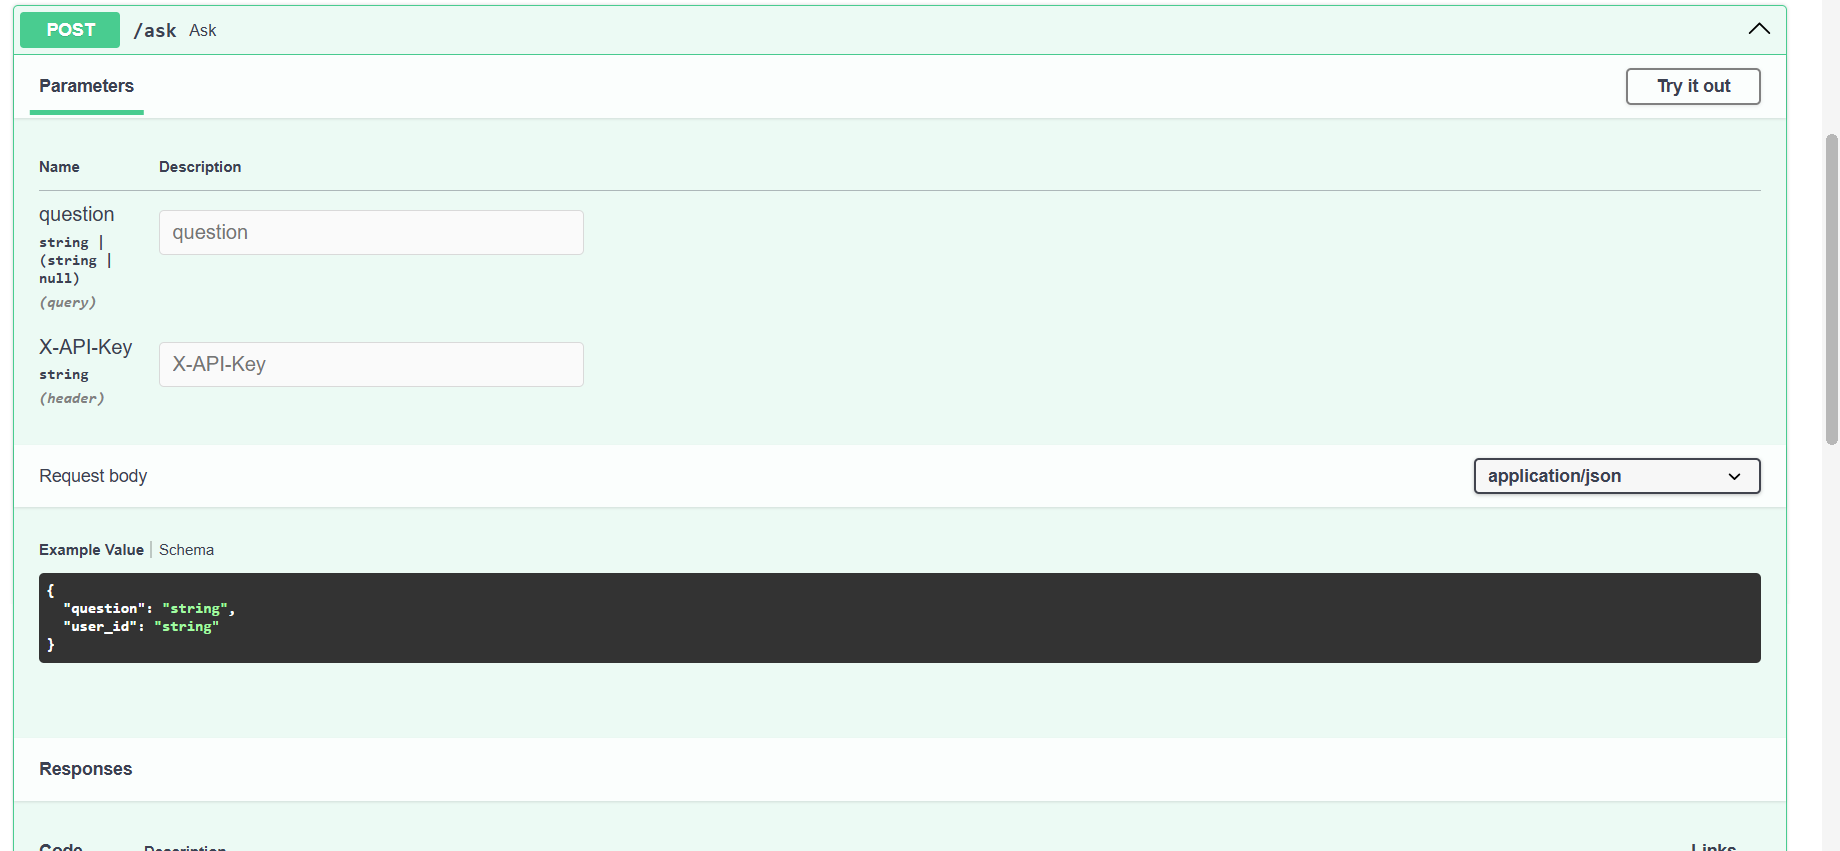
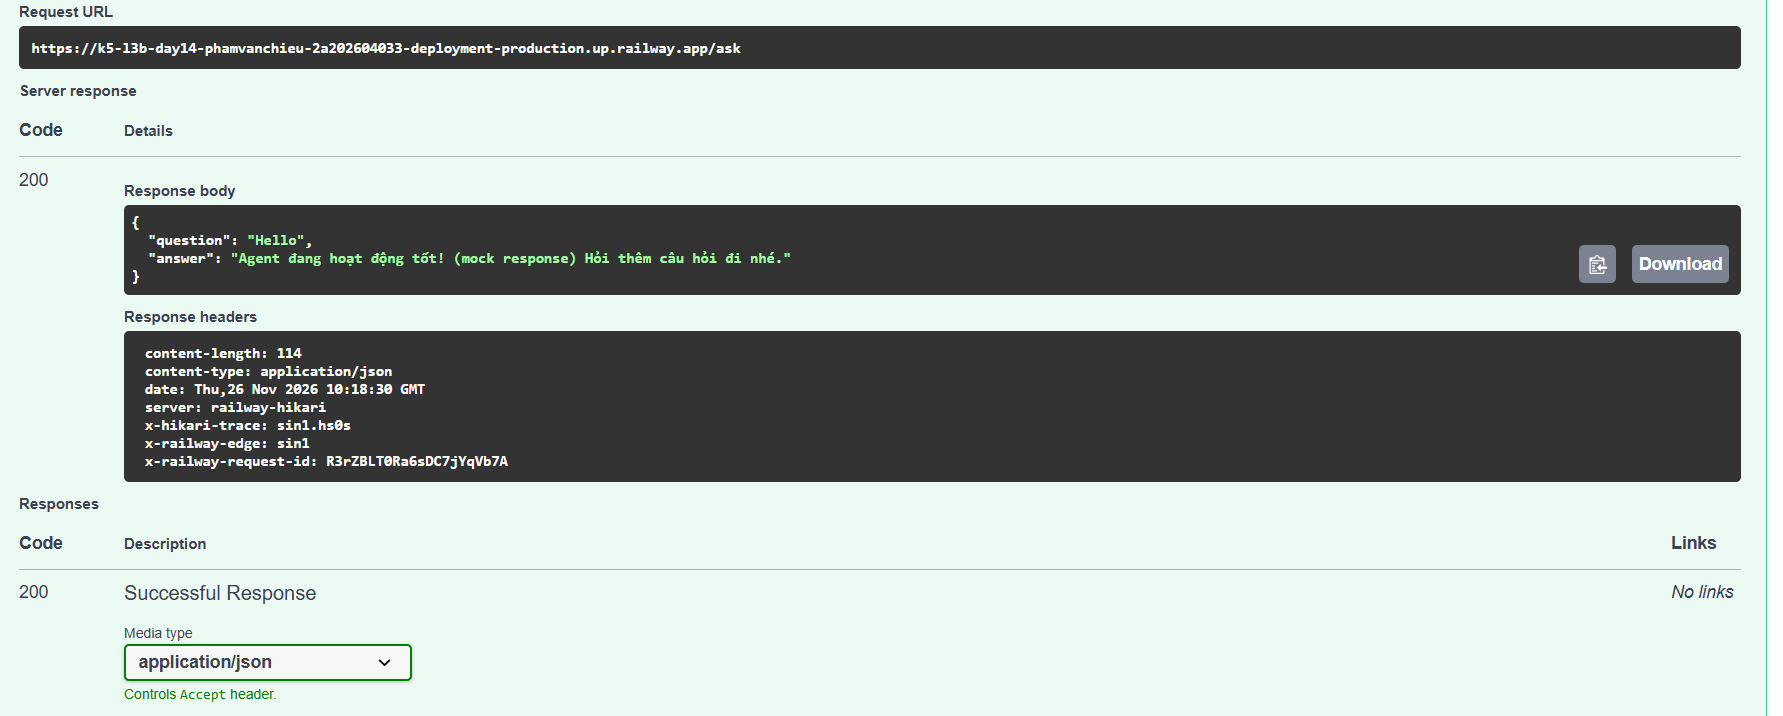
Add verified Day 14 exercise evidence

diff --git a/MISSION_ANSWERS.md b/MISSION_ANSWERS.md
@@ -17,6 +17,8 @@
 
 ### Exercise 1.2: Chạy bản develop
 
+Ví dụ về cấu hình cổng: [Bản develop gán cứng `port=8000`](01-localhost-vs-production/develop/app.py#L52). [Bản production đọc biến `PORT`](01-localhost-vs-production/production/config.py#L18) và [truyền cổng đã đọc cho Uvicorn](01-localhost-vs-production/production/app.py#L197). Nền tảng deploy có thể cấp cổng qua env mà không cần đổi mã nguồn.
+
 App mẫu bind vào loopback, vì vậy hai request được gọi từ bên trong container chạy bản develop.
 
 ```text
@@ -111,6 +113,17 @@ content-type: application/json
 {"detail": "Rate limit exceeded"}
 ```
 
+**Kết quả chạy lại hai app mẫu qua HTTP trên Ubuntu WSL**
+
+```text
+Develop     POST /ask thiếu API key                → 401
+Develop     POST /ask có API key hợp lệ            → 200
+Production  POST /ask thiếu JWT                    → 401
+Production  POST /auth/token với tài khoản demo    → 200
+Production  POST /ask với JWT, request 1–10        → 200
+Production  POST /ask với JWT, request 11–12       → 429
+```
+
 ### Exercise 4.4: Thiết kế Cost Guard bảo vệ ngân sách
 - Sử dụng Redis để cộng dồn chi phí token (`cost_guard:total_cost_usd`) sau mỗi lần gọi LLM.
 - Trước khi gọi LLM, hàm `check_budget()` kiểm tra tổng chi phí hiện tại. Nếu vượt ngưỡng `DAILY_BUDGET_USD` (hoặc `MONTHLY_BUDGET_USD`), chặn ngay lập tức và trả về mã lỗi **HTTP 402 Payment Required** (hoặc Budget Exceeded), giúp ngăn chặn sự cố cạn kiệt ngân sách do vòng lặp vô tận hoặc tấn công DoS chi phí.
@@ -182,6 +195,7 @@ Kiểm tra lại ngày 26/11/2026 bằng `python3 check_production_ready.py` tro
 - **Hỗ trợ của Codex:** Đối chiếu log Railway và Docker, sửa đường dẫn thư viện Python trong Dockerfile Part 7, tổng hợp bảng scaling từ CSV và rà soát ba tài liệu nộp.
 - **Bằng chứng kiểm tra:** Người làm bài chạy lại stack sau khi sửa Dockerfile và ghi nhận ba agent healthy, gọi thử bốn endpoint Railway, chạy Locust và chụp ảnh Grafana, Jaeger, Prometheus. Các số scaling được đối chiếu với CSV.
 - **Rà soát bổ sung:** Codex chạy mẫu Part 1, đo image và gọi qua Nginx Part 2, chạy lại bài stateless Part 5 và script chấm Part 6 trên máy local. Mốc alert được đối chiếu với lịch sử Prometheus và trace được đối chiếu với log JSON của agent.
+- **Kiểm tra cuối:** Codex chạy lại HTTP test API key/JWT của Part 4, truy vấn mẫu Prometheus để trả lời Exercise 7.4 và đối chiếu ảnh deploy với các mã HTTP đã xác nhận.
 - **Nội dung hỏi:**
   - Hướng dẫn cấu hình môi trường WSL2 / Docker trên Windows 11.
   - Phân tích yêu cầu và kiến trúc chuẩn 12 tiêu chí Production-ready AI Agent.

diff --git a/BENCHMARK_REPORT.md b/BENCHMARK_REPORT.md
@@ -74,6 +74,13 @@ Trong CI, chạy `eval/run_eval.py` với ngưỡng accuracy và baseline đã c
 - [x] Một trace lỗi trong Jaeger: `screenshots/jaeger-error-trace.png`
 - [x] Trang Alerts của Prometheus với ít nhất 2 alert đang **firing**: `screenshots/prometheus-alert-firing.png`
 
+**Exercise 7.4**
+
+1. Mẫu Prometheus lúc 17:38:00 ngày 26/11/2026 (GMT+7) cho `POST /ask` có p95 **294,23 ms** và trung bình **237,80 ms**. Chênh khoảng **56,43 ms** cho thấy nhóm request chậm có thời gian phản hồi cao hơn mức trung bình. Tile p95 trong ảnh Grafana ở thời điểm chụp hiển thị **293,86 ms**.
+2. Cùng mẫu đó, ba replica nhận lần lượt **2,16**, **2,15** và **2,10 req/s**. Tải được phân phối gần đều trên ba replica của lần chạy này.
+3. Input khoảng **490,24 token/s**, output khoảng **253,92 token/s**. Agent v2 đưa câu hỏi cùng context truy xuất vào prompt, nên lượng token đầu vào lớn hơn lượng token từ câu trả lời.
+4. `GET http://localhost:8080/metrics` trả **HTTP 404**. Nginx chặn đường dẫn này và Prometheus scrape trực tiếp từ agent qua mạng nội bộ Docker.
+
 ### 4.2 Thí nghiệm "phá hệ thống"
 
 | # | Thay đổi | Alert nào firing | Thời gian từ lúc đổi → firing | Panel nào phản ánh rõ nhất |

diff --git a/DEPLOYMENT.md b/DEPLOYMENT.md
@@ -56,5 +56,7 @@ curl -i -X POST https://k5-l3b-day14-phamvanchieu-2a202604033-deployment-product
 
 ## Screenshots
 - [Deployment dashboard](screenshots/dashboard.png)
-- [Service running](screenshots/running.png)
-- [Test results](screenshots/test.png)
+- [Service running và Deploy Logs của cả bốn kiểm tra](screenshots/running.png)
+- [Kết quả POST /ask có key, HTTP 200](screenshots/test.png)
+- [Kết quả GET /health, HTTP 200](screenshots/test3.png)
+- [Kết quả GET /ready, HTTP 200](screenshots/test4.png)
